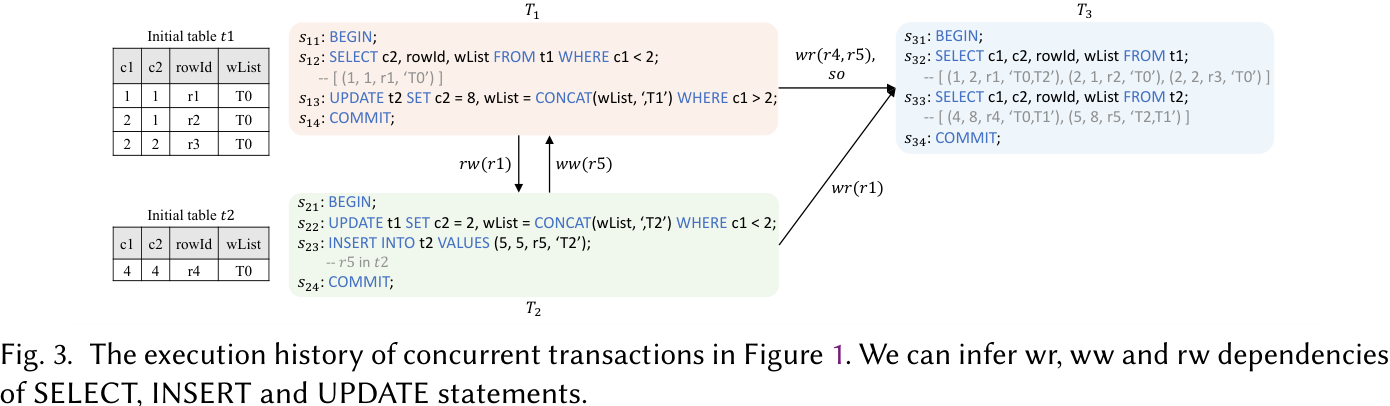
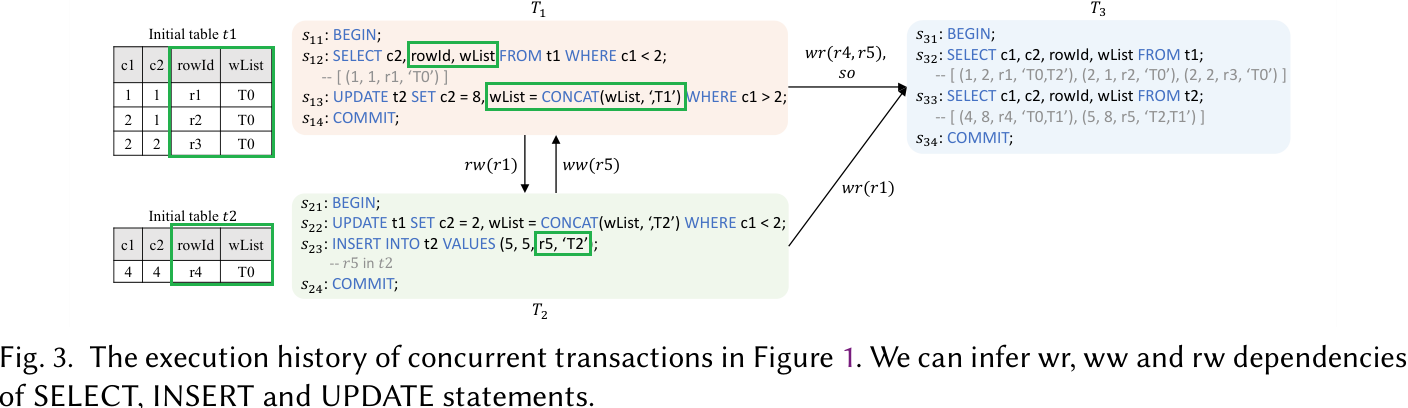
veri-history overall revised

diff --git a/sections/obs.tex b/sections/obs.tex
@@ -20,7 +20,7 @@
 %%%%%%%%%%%%%%%%%%%%
 \begin{frame}{}
 	\begin{center}
-		\fig{width = 0.80\textwidth}{figs/obs-flow}
+		\fig{width = 0.70\textwidth}{figs/obs-flow}
 
 		\pause
 		\vspace{0.50cm}
@@ -59,93 +59,16 @@
 	\]
 	\pause
 	\[
-		\psi: \text{Isolation Correctness Constraint}
+		\blue{\psi: \text{Isolation Correctness Constraint}}
 	\]
 \end{frame}
 %%%%%%%%%%%%%%%%%%%%
 
 %%%%%%%%%%%%%%%%%%%%
 \begin{frame}{}
-	\[
-		d_{0}[\acctone] = 100 \quad d_{0}[\accttwo] = 300 \qquad \blue{\text{(Strong SI)}}
-	\]
-	\fig{width = 0.90\textwidth}{figs/obs-history}
-	\pause
-	\[
-		d_{1}[\acctone] = 90 \quad
-		d_{1}[\accttwo] = 310 \quad
-		r_{1} \equiv \bot \quad
-		\cons_{1} \equiv \true \quad
-		\psi \equiv \true
-	\]
-	\vspace{-0.30cm}
-	\pause
-	\[
-		% d_{2}[\acctone] = 90 \quad
-		d_{2}[\accttwo] = ite(\id_{2}^{\accttwo} \ge 1, 410, 400) \quad
-		r_{2} = \bot \quad
-		\cons_{2} \equiv \true \quad
-		\psi \equiv \id_{2}^{\accttwo} = 1
-	\]
-	\vspace{-0.40cm}
-	\[
-		\phi \land \psi \equiv \id_{2}^{\accttwo} = 1 \equiv \green{\true}
-	\]
-	\pause
-	\[
-		d_{3}[\accttwo] = \ite(\id_{3}^{\accttwo} \ge 2,
-		  \ite(\id_{2}^{\accttwo} \ge 1, 410, 400),
-			\ite(\id_{3}^{\accttwo} \ge 1, 310, 300)) + 10
-	\]
-	\vspace{-0.40cm}
-	\[
-		\psi \equiv \id_{3}^{\accttwo} = 1 \land
-		  ite(\id_{2}^{\accttwo} \ge 1, 410, 400) = d_{3}[\accttwo]
-	\]
-	\vspace{-0.40cm}
-	\[
-		\phi \land \psi \equiv \red{\false}
-	\]
-\end{frame}
-%%%%%%%%%%%%%%%%%%%%
-
-%%%%%%%%%%%%%%%%%%%%
-\begin{frame}{}
-	\[
-		T_{1}\quad T_{2}\quad \red{T_{3} \;(\text{\no})}\quad T_{4}
-	\]
-	\fig{width = 0.90\textwidth}{figs/obs-history}
-
-	\pause
-	\[
-		r_{4}^{\accttwo} = \ite(\id_{4}^{\accttwo} \ge 3,
-		  \ite(\id_{2}^{\accttwo} \ge 1, 410, 400),
-			\ite(\id_{4}^{\accttwo}) \ge 1, 310, 300)
-	\]
-	\pause
-	\vspace{-0.40cm}
-	\[
-		\phi_{4} \equiv r_{4}^{\accttwo} = 420
-	\]
-	\pause
-	\vspace{-0.40cm}
-	\[
-		\phi \land \lgray{\psi} \equiv \red{\false}
-	\]
-\end{frame}
-%%%%%%%%%%%%%%%%%%%%
-
-%%%%%%%%%%%%%%%%%%%%
-\begin{frame}{}
-	\fig{width = 0.70\textwidth}{figs/obs-semantics}
-	\pause
-	\fig{width = 0.65\textwidth}{figs/obs-isolation}
-	% \begin{columns}
-	% 	\column{0.50\textwidth}
-	% 	  \fig{width = 0.95\textwidth}{figs/obs-semantics}
-	% 	\column{0.50\textwidth}
-	% 	  \fig{width = 0.95\textwidth}{figs/obs-isolation}
-	% \end{columns}
+	% \fig{width = 0.70\textwidth}{figs/obs-semantics}
+	% \pause
+	\fig{width = 0.85\textwidth}{figs/obs-isolation}
 \end{frame}
 %%%%%%%%%%%%%%%%%%%%
 

diff --git a/sections/appendix.tex b/sections/appendix.tex
@@ -1,0 +1,72 @@
+% appendix.tex
+
+%%%%%%%%%%%%%%%%%%%%
+\begin{frame}{}
+	\[
+		d_{0}[\acctone] = 100 \quad d_{0}[\accttwo] = 300 \qquad \blue{\text{(Strong SI)}}
+	\]
+	\fig{width = 0.90\textwidth}{figs/obs-history}
+	\pause
+	\[
+		d_{1}[\acctone] = 90 \quad
+		d_{1}[\accttwo] = 310 \quad
+		r_{1} \equiv \bot \quad
+		\cons_{1} \equiv \true \quad
+		\psi \equiv \true
+	\]
+	\vspace{-0.30cm}
+	\pause
+	\[
+		% d_{2}[\acctone] = 90 \quad
+		d_{2}[\accttwo] = ite(\id_{2}^{\accttwo} \ge 1, 410, 400) \quad
+		r_{2} = \bot \quad
+		\cons_{2} \equiv \true \quad
+		\psi \equiv \id_{2}^{\accttwo} = 1
+	\]
+	\vspace{-0.40cm}
+	\[
+		\phi \land \psi \equiv \id_{2}^{\accttwo} = 1 \equiv \green{\true}
+	\]
+	\pause
+	\[
+		d_{3}[\accttwo] = \ite(\id_{3}^{\accttwo} \ge 2,
+		  \ite(\id_{2}^{\accttwo} \ge 1, 410, 400),
+			\ite(\id_{3}^{\accttwo} \ge 1, 310, 300)) + 10
+	\]
+	\vspace{-0.40cm}
+	\[
+		\psi \equiv \id_{3}^{\accttwo} = 1 \land
+		  ite(\id_{2}^{\accttwo} \ge 1, 410, 400) = d_{3}[\accttwo]
+	\]
+	\vspace{-0.40cm}
+	\[
+		\phi \land \psi \equiv \red{\false}
+	\]
+\end{frame}
+%%%%%%%%%%%%%%%%%%%%
+
+%%%%%%%%%%%%%%%%%%%%
+\begin{frame}{}
+	\[
+		T_{1}\quad T_{2}\quad \red{T_{3} \;(\text{\no})}\quad T_{4}
+	\]
+	\fig{width = 0.90\textwidth}{figs/obs-history}
+
+	\pause
+	\[
+		r_{4}^{\accttwo} = \ite(\id_{4}^{\accttwo} \ge 3,
+		  \ite(\id_{2}^{\accttwo} \ge 1, 410, 400),
+			\ite(\id_{4}^{\accttwo}) \ge 1, 310, 300)
+	\]
+	\pause
+	\vspace{-0.40cm}
+	\[
+		\phi_{4} \equiv r_{4}^{\accttwo} = 420
+	\]
+	\pause
+	\vspace{-0.40cm}
+	\[
+		\phi \land \lgray{\psi} \equiv \red{\false}
+	\]
+\end{frame}
+%%%%%%%%%%%%%%%%%%%%

diff --git a/sections/isorel.tex b/sections/isorel.tex
@@ -26,20 +26,31 @@
 
 %%%%%%%%%%%%%%%%%%%%
 \begin{frame}{}
-	\begin{center}
-		Two auxiliary columns: $\rowid$, $\wlist$
-		\fig{width = 0.95\textwidth}{figs/isorel-instrumentation}
-	\end{center}
+	\fig{width = 1.00\textwidth}{figs/isorel-deps}
+
+	\pause
+	\vspace{0.50cm}
+	\fig{width = 1.00\textwidth}{figs/isorel-deps-wr}
+\end{frame}
+%%%%%%%%%%%%%%%%%%%%
+
+%%%%%%%%%%%%%%%%%%%%
+\begin{frame}{}
+	\fig{width = 1.00\textwidth}{figs/isorel-deps-ww}
+	\pause
+	\vspace{0.50cm}
+	\fig{width = 1.00\textwidth}{figs/isorel-deps-rw}
 \end{frame}
 %%%%%%%%%%%%%%%%%%%%
 
 %%%%%%%%%%%%%%%%%%%%
 \begin{frame}{}
 	\begin{center}
-		\fig{width = 1.00\textwidth}{figs/isorel-deps}
-		\pause
-		\fig{width = 0.80\textwidth}{figs/isorel-deps-delete}
-		\fig{width = 0.80\textwidth}{figs/isorel-deps-selectforupdate}
+		Two auxiliary columns: \blue{$\rowid$}, \blue{$\wlist$}
+		\fig{width = 0.95\textwidth}{figs/isorel-instrumentation}
+
+		% \fig{width = 0.80\textwidth}{figs/isorel-deps-delete}
+		% \fig{width = 0.80\textwidth}{figs/isorel-deps-selectforupdate}
 	\end{center}
 \end{frame}
 %%%%%%%%%%%%%%%%%%%%
@@ -55,6 +66,8 @@
 %%%%%%%%%%%%%%%%%%%%
 \begin{frame}{}
 	\begin{center}
+		\fig{width = 0.50\textwidth}{figs/limitation}
+		\red{No \textsf{Pred}-\wrdep; No \textsf{Pred}-\rwdep}
 		\fig{width = 1.00\textwidth}{figs/isorel-pred-deps}
 	\end{center}
 \end{frame}

diff --git a/sections/intro.tex b/sections/intro.tex
@@ -15,8 +15,7 @@
 
   \vspace{0.30cm}
   \begin{center}
-    \red{隔离性} (Isolation) 要求并发事务互不干扰, \\[3pt]
-    避免上层业务产生数据异常 (Anomalies)
+    \red{隔离性} (Isolation) 要求并发事务互不干扰, 避免数据异常 (Anomalies)
   \end{center}
 \end{frame}
 %%%%%%%%%%%%%%%%%%%%
@@ -28,6 +27,20 @@
 
     \vspace{0.30cm}
     \fig{width = 0.70\textwidth}{figs/tcm}
+
+    \begin{columns}
+      \column{0.15\textwidth}
+      \column{0.70\textwidth}
+        \begin{description}
+          \item[\ru:] Read Uncommitted
+          \item[\rc:] Read Committed
+          \item[\ra:] Read Atomicity
+          \item[\tcc:] Transactional Causal Consistency
+          \item[\si:] Snapshot Isolation
+          \item[\ser:] Serializability
+        \end{description}
+      \column{0.15\textwidth}
+    \end{columns}
   \end{center}
 \end{frame}
 %%%%%%%%%%%%%%%%%%%%
@@ -113,6 +126,6 @@
 
 %%%%%%%%%%%%%%%%%%%%
 \begin{frame}{}
-  \fig{width = 0.75\textwidth}{figs/verification-problems}
+  \fig{width = 0.65\textwidth}{figs/verification-problems}
 \end{frame}
 %%%%%%%%%%%%%%%%%%%%

diff --git a/tables/table-history-verifier.tex b/tables/table-history-verifier.tex
@@ -6,7 +6,7 @@
 \label{tab:my-table}
 \renewcommand{\arraystretch}{1.8}
 \resizebox{\columnwidth}{!}{%
-\begin{tabular}{|c|c|c|c|c|c|c|c|c|}
+\begin{tabular}{|c||c|c|c|c|c|c|c||c|}
 	\hline
 	\textbf{验证问题} &
   \textbf{复杂度} &
@@ -16,7 +16,7 @@
   \textbf{年份} &
 	\text{\textbf{\textsc{UniqueVal}}} &
 	\textbf{数据模型} &
-  \textbf{发展趋势}
+  \textbf{\cellcolor{purple!50}{发展趋势}}
   \\ \hline\hline
 	\multirow{9}{*}{\textbf{\incell{一般执行历史}{验证问题}}} &
   \multirow{7}{*}{\textsf{NP-complete}} &
@@ -47,7 +47,7 @@
 	\multirow{6}{*}{\textbf{\begin{tabular}[c]{@{}c@{}}特定执行历史\\ 验证问题\end{tabular}}} &
   \multirow{6}{*}{\textsf{Poly.}} &
 	\textsc{Elle} & G0, G1, G2 Anomalies & VLDB & 2021 & \yes & KV &
-  \multirow{6}{*}{更多类信息}
+  \multirow{6}{*}{\incell{多种类}{信息}}
   \\ \cline{3-8}
   & & Emme & SER & EuroSys & 2024 & \no & \cellcolor{green!50}SQL &
 	\\ \cline{3-8}

diff --git a/sections/mil.tex b/sections/mil.tex
@@ -51,6 +51,7 @@
 
 	\fig{width = 0.60\textwidth}{figs/mil-client-history}
 
+	\pause
 	\begin{theorem}[Complexity of Verifying Client Histories]
 		Verifying consistency of \red{client histories}
 		with $\ge \rc$ and a fixed number of $\ge 3$ sessions
@@ -62,12 +63,14 @@
 
 %%%%%%%%%%%%%%%%%%%%
 \begin{frame}{}
-	\begin{columns}
-		\column{0.50\textwidth}
-			\fig{width = 0.90\textwidth}{figs/mil-cav2025}
-		\column{0.50\textwidth}
-			\fig{width = 0.70\textwidth}{figs/mil-rc-si-ser}
-	\end{columns}
+			\fig{width = 0.60\textwidth}{figs/mil-cav2025}
+			\fig{width = 0.30\textwidth}{figs/mil-rc-si-ser}
+	% \begin{columns}
+	% 	\column{0.50\textwidth}
+	% 		\fig{width = 0.90\textwidth}{figs/mil-cav2025}
+	% 	\column{0.50\textwidth}
+	% 		\fig{width = 0.70\textwidth}{figs/mil-rc-si-ser}
+	% \end{columns}
 \end{frame}
 %%%%%%%%%%%%%%%%%%%%
 

diff --git a/sections/veri-history.tex b/sections/veri-history.tex
@@ -2,7 +2,10 @@
 
 %%%%%%%%%%%%%%%%%%%%
 \begin{frame}{}
-  \fig{width = 0.75\textwidth}{figs/veri-history}
+  \fig{width = 0.65\textwidth}{figs/veri-history}
+	\begin{center}
+		\purple{\Large 这也是本次分享的重点!}
+	\end{center}
 \end{frame}
 %%%%%%%%%%%%%%%%%%%%
 
@@ -12,7 +15,6 @@
 		\fig{width = 0.90\textwidth}{figs/veri-history-flow}
 
 		\pause
-		\vspace{0.30cm}
 		\red{What does a {\it history} look like?}
 	\end{center}
 \end{frame}
@@ -48,3 +50,9 @@
 \input{sections/mtc}
 \input{sections/writecheck}
 \input{sections/isorel}
+
+%%%%%%%%%%%%%%%%%%%%
+\begin{frame}{}
+	\input{tables/table-history-verifier}
+\end{frame}
+%%%%%%%%%%%%%%%%%%%%

diff --git a/sections/veri-robustness.tex b/sections/veri-robustness.tex
@@ -2,6 +2,12 @@
 
 %%%%%%%%%%%%%%%%%%%%
 \begin{frame}{}
+  \fig{width = 0.65\textwidth}{figs/veri-robustness}
+\end{frame}
+%%%%%%%%%%%%%%%%%%%%
+
+%%%%%%%%%%%%%%%%%%%%
+\begin{frame}{}
 	\begin{center}
 		Program $\mathcal{P}$ is \blue{\it robust}
 		against isolation level $I_{1}$ relative to $I_{2} \sqsupseteq I_{1}$

diff --git a/preamble.tex b/preamble.tex
@@ -165,7 +165,7 @@
     \begin{center}
       \fig{width = 0.618\textwidth}{figs/thankyou}
       \vspace{0.30cm}
-      Hengfeng Wei (hfwei@nju.edu.cn)
+      Hengfeng Wei (hengfeng\_wei@126.com)
     \end{center}
   \end{frame}
 }

diff --git a/dbconf2025.tex b/dbconf2025.tex
@@ -20,7 +20,7 @@
 \begin{document}
 \maketitle
 %%%%%%%%%%%%%%%%%%%%
-% \input{sections/intro}
+\input{sections/intro}
 \input{sections/veri-history}
 % \input{sections/veri-protocol}
 % \input{sections/veri-robustness}

diff --git a/sections/veri-protocol.tex b/sections/veri-protocol.tex
@@ -2,7 +2,7 @@
 
 %%%%%%%%%%%%%%%%%%%%
 \begin{frame}{}
-  \fig{width = 0.75\textwidth}{figs/veri-protocol}
+  \fig{width = 0.65\textwidth}{figs/veri-protocol}
 \end{frame}
 %%%%%%%%%%%%%%%%%%%%
 
